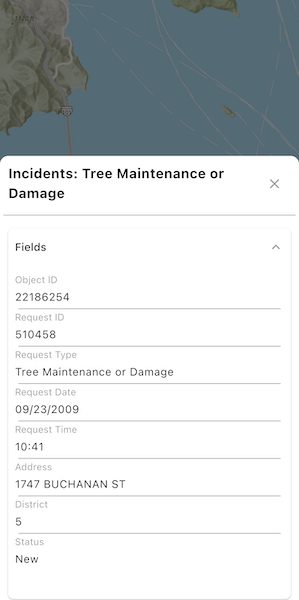
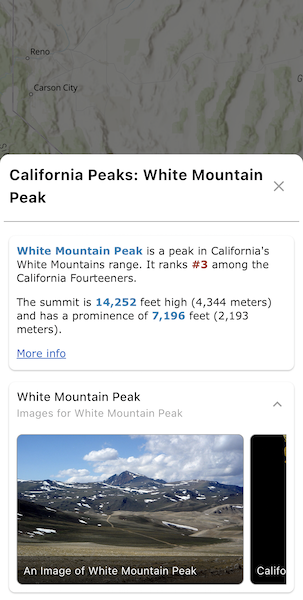
show_popup data updated to California peaks.

diff --git a/lib/samples/show_popup/show_popup.dart b/lib/samples/show_popup/show_popup.dart
@@ -53,11 +53,11 @@ class _ShowPopupState extends State<ShowPopup> with SampleStateSupport {
   }
 
   Future<void> onMapViewReady() async {
-    // Create a map with the San Francisco incidents web map portal item.
+    // Create a map with the California Peaks web map portal item.
     final map = ArcGISMap.withItem(
       PortalItem.withPortalAndItemId(
         portal: Portal.arcGISOnline(),
-        itemId: 'fb788308ea2e4d8682b9c05ef641f273',
+        itemId: '9f3a674e998f461580006e626611f9ad',
       ),
     );
 

diff --git a/lib/samples/show_popup/README.md b/lib/samples/show_popup/README.md
@@ -27,7 +27,7 @@ Tap on the features to prompt a popup that displays information about the featur
 
 ## About the data
 
-This sample uses a [web map](https://www.arcgis.com/home/item.html?id=fb788308ea2e4d8682b9c05ef641f273) that displays reported incidents in San Francisco.
+The [California Peaks layer](https://arcgis.com/home/item.html?id=f7a011555feb423397601a47a56665d8) contains point features for every mountain peak in California with an elevation that exceeds 14,000 feet (4,267.2 meters) above mean sea level. Each feature contains a predefined popup with information about its associated peak, including an image, chart, and feature table data.
 
 ## Tags
 
